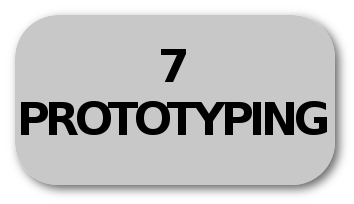
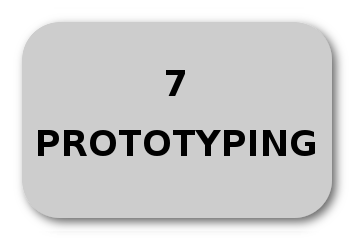
CSS BUTTONS

Changed region(s): [[0.0311, 0.0588, 0.9633, 0.8529], [0.435, 0.2353, 0.5282, 0.4118], [0.839, 0.8235, 0.9322, 0.9118]]

diff --git a/public/css/style.css b/public/css/style.css
@@ -1,4 +1,35 @@
+/*
 img.image {
-/*    padding: 100px; */
+    padding: 100px;
     max-width: 150px;
 }
+*/
+
+/*
+.btn {
+    background: #c2c2c2;
+    background-image: -webkit-linear-gradient(top, #c2c2c2, #adadad);
+    background-image: -moz-linear-gradient(top, #c2c2c2, #adadad);
+    background-image: -ms-linear-gradient(top, #c2c2c2, #adadad);
+    background-image: -o-linear-gradient(top, #c2c2c2, #adadad);
+    background-image: linear-gradient(to bottom, #c2c2c2, #adadad);
+    -webkit-border-radius: 15;
+    -moz-border-radius: 15;
+    border-radius: 15px;
+    font-family: Arial;
+    color: #000000;
+    font-size: 20px;
+    padding: 10px 20px 10px 20px;
+    text-decoration: none;
+}
+
+*/
+
+.uxbtn {
+    min-height:70px;
+}
+.btncontent {
+    top: 50%;
+    transform: translateY(20%);
+}
+.top-buffer { margin-top:22px; }
